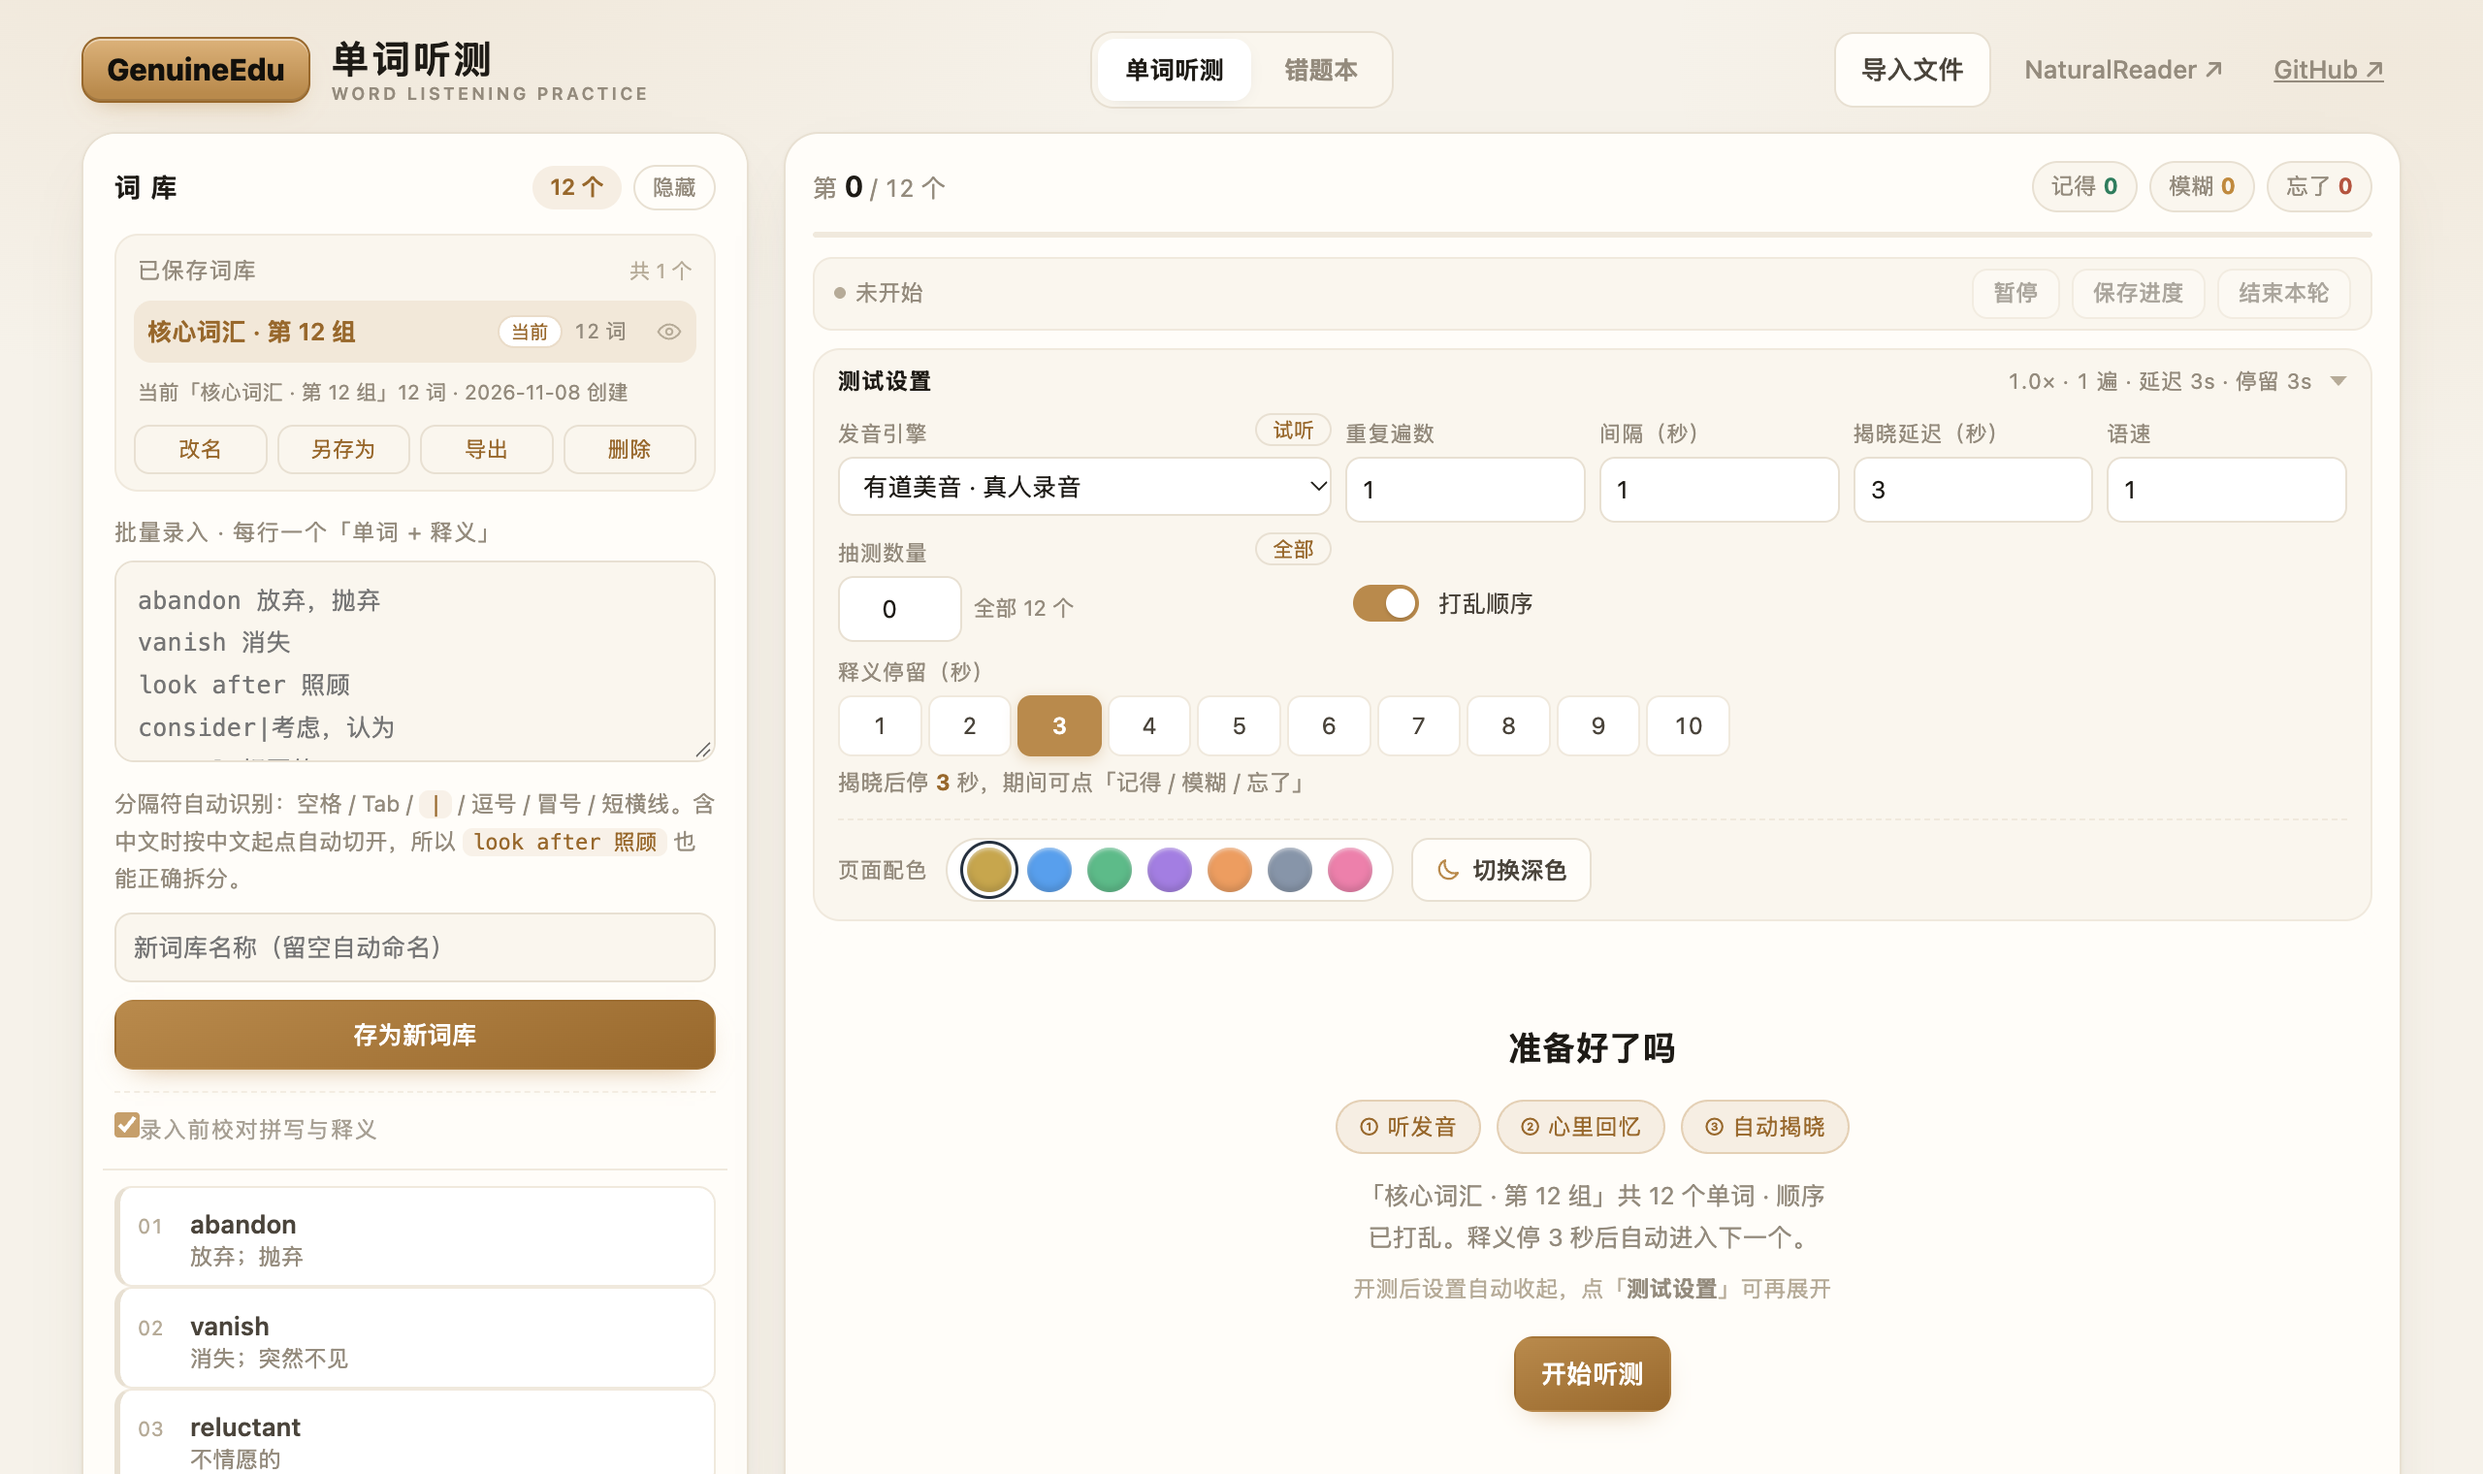
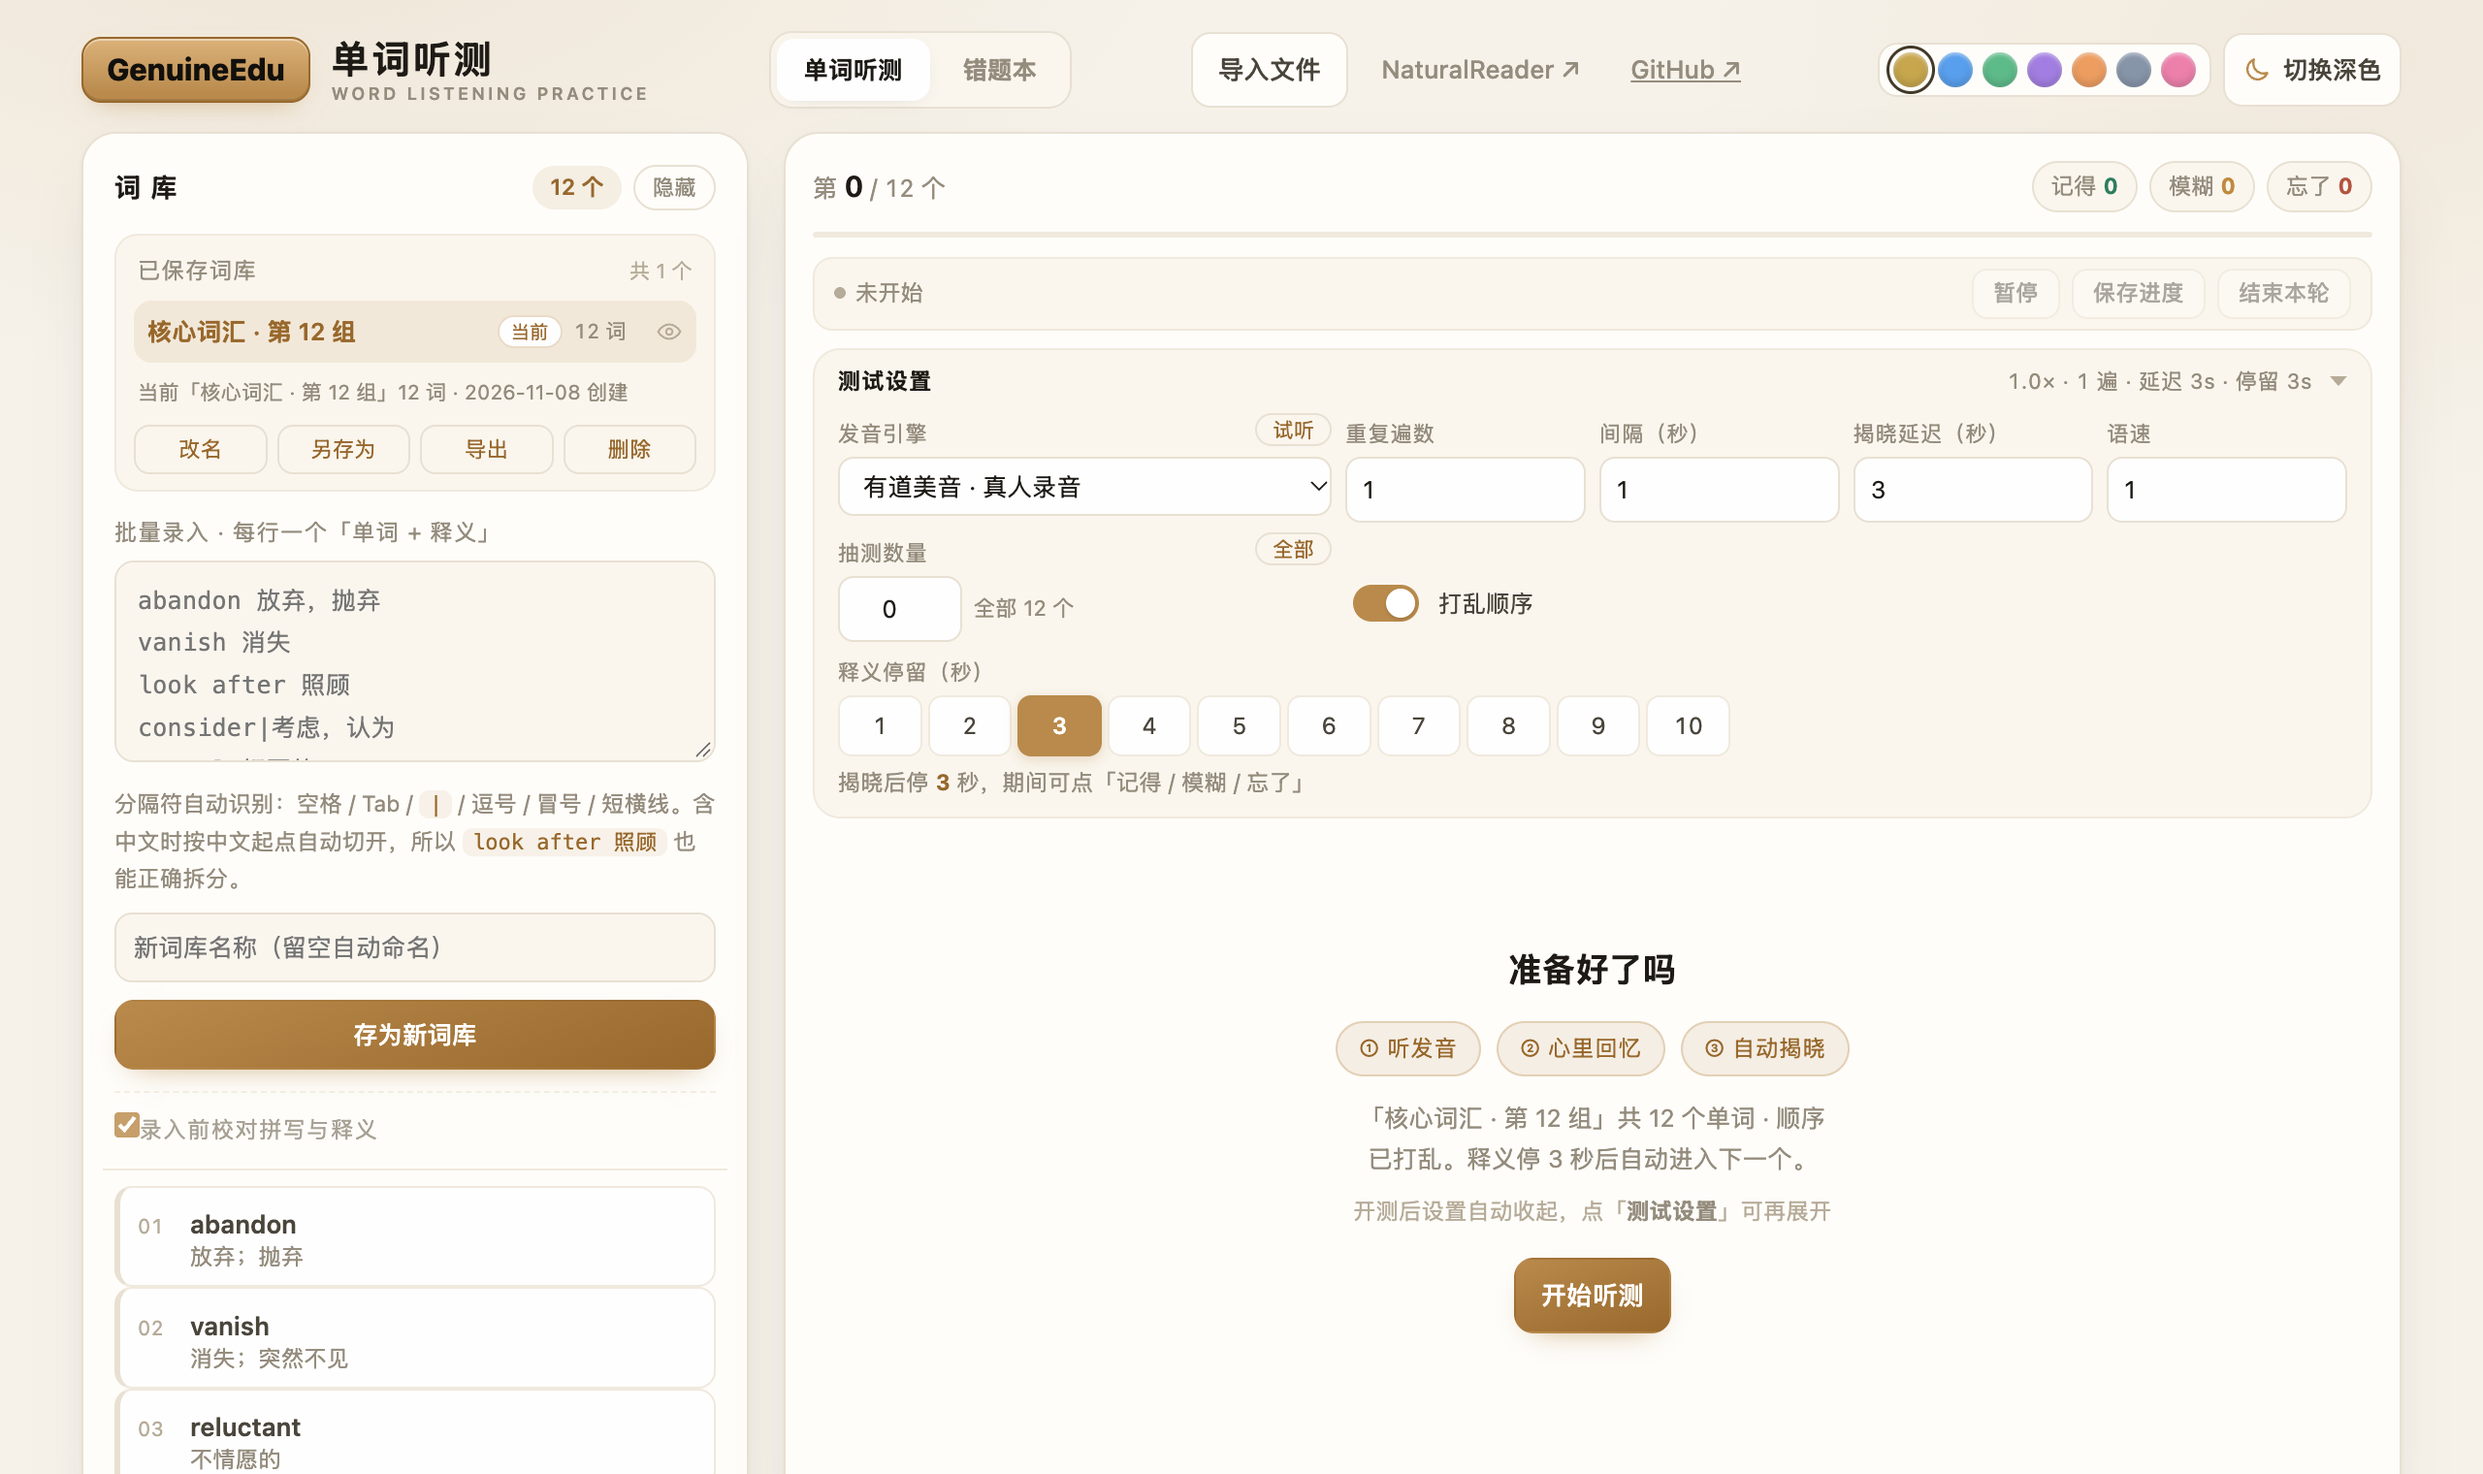
feat(theme): 页面配色从「测试设置」挪到顶栏右上角常驻（一排色点 + 深色开关），开测收起设置后也能随时换色；1024 这类窄顶栏自动收小色点、深色按钮只留图标，避免顶栏折行；重拍 README 两张配图

diff --git a/index.html b/index.html
@@ -510,7 +510,6 @@ textarea:focus,input:focus,select:focus{border-color:var(--gold);background:var(
 .set label{display:block;font-size:11px;color:var(--muted);letter-spacing:.03em;margin-bottom:3px;white-space:nowrap}
 .set select,.set input{padding:6px 8px;font-size:12.5px;border-radius:8px;background:var(--panel-3)}
 .set.wide{grid-column:span 2}
-.set.full{grid-column:1 / -1}   /* 带长提示的区域独占一整行，别和右侧开关挤在一起 */
 .set .unit{font-size:11px;color:var(--muted);margin-left:3px}
 .switch{display:flex;align-items:center;gap:7px;padding-top:15px;font-size:12px;color:var(--ink-2);cursor:pointer;user-select:none;grid-column:span 2;white-space:nowrap}
 .switch input{appearance:none;width:34px;height:19px;border-radius:20px;background:var(--line);position:relative;transition:.2s;cursor:pointer;flex:0 0 auto;border:none;padding:0}
@@ -533,19 +532,20 @@ textarea:focus,input:focus,select:focus{border-color:var(--gold);background:var(
 #revealStayHint{margin:5px 0 0;font-size:11.5px;line-height:1.5}
 #revealStayHint b{color:var(--gold-d);font-variant-numeric:tabular-nums}
 
-/* 页面配色：一排色点 + 深浅色按钮（参考 GenuineEdu 配色选择条） */
-.theme-set{display:flex;align-items:center;gap:9px;flex-wrap:wrap;
-  margin-top:3px;padding-top:9px;border-top:1px dashed var(--line-2)}
-.tt-lbl{flex:none;font-size:11px;color:var(--muted);letter-spacing:.03em;margin:0}
-.sw-pill{display:flex;align-items:center;gap:8px;flex:none;
-  background:var(--panel-3);border:1px solid var(--line);border-radius:999px;padding:4px 10px}
-.swdot{width:23px;height:23px;border-radius:50%;border:0;padding:0;flex:none;position:relative;
+/* 页面配色：常驻顶栏右上角，一排色点 + 深浅色开关。
+   放在这里而不是「测试设置」里，是因为开测后设置会自动收起，配色想随时换就得再点开一层。 */
+.top-theme{display:flex;align-items:center;gap:6px;flex:none}
+.sw-pill{
+  display:flex;align-items:center;gap:5px;flex:none;
+  background:var(--panel);border:1px solid var(--line);border-radius:10px;padding:4px 7px;
+}
+.swdot{width:18px;height:18px;border-radius:50%;border:0;padding:0;flex:none;position:relative;
   background:var(--dot);cursor:pointer;transition:transform .14s,box-shadow .14s;
   box-shadow:inset 0 -2px 4px rgba(0,0,0,.16),inset 0 1px 2px rgba(255,255,255,.55)}
 /* 视觉上是个小圆点，实际点击范围放大一圈，手机上不至于点不中 */
 .swdot::after{content:"";position:absolute;inset:-5px;border-radius:50%}
 .swdot:hover{transform:scale(1.08)}
-.swdot.on{box-shadow:0 0 0 2px var(--panel-3),0 0 0 3.5px var(--ring),
+.swdot.on{box-shadow:0 0 0 2px var(--panel),0 0 0 3.5px var(--ring),
   inset 0 -2px 4px rgba(0,0,0,.16),inset 0 1px 2px rgba(255,255,255,.55)}
 .swdot[data-theme=gold]{--dot:#c7a64d}
 .swdot[data-theme=blue]{--dot:#589fed}
@@ -554,9 +554,19 @@ textarea:focus,input:focus,select:focus{border-color:var(--gold);background:var(
 .swdot[data-theme=orange]{--dot:#ed9d60}
 .swdot[data-theme=slate]{--dot:#8795a9}
 .swdot[data-theme=pink]{--dot:#ed80ab}
-.dark-btn{flex:none;padding:6px 11px;font-size:12px;border-radius:9px;gap:6px;color:var(--ink-2)}
-.dark-btn svg{width:14px;height:14px;flex:none;color:var(--acc)}
+.dark-btn{flex:none;padding:8px 9px;font-size:12.5px;border-radius:10px;gap:6px;color:var(--ink-2)}
+.dark-btn svg{width:15px;height:15px;flex:none;color:var(--acc)}
 .dark-btn:hover{border-color:rgba(var(--acc-rgb),.34);background:var(--panel-3)}
+/* 1000px 上下的笔记本屏顶栏本来就挤：深色按钮收成只有月亮图标、色点收小一档，
+   配色条才塞得进同一行（否则顶栏折成两行，测试页就得多滚一屏） */
+@media (max-width:1100px){
+  .topbar{gap:12px}
+  .dark-btn span{display:none}
+  .dark-btn{padding:7px 8px}
+  .top-theme{gap:5px;margin-left:auto}
+  .sw-pill{gap:4px;padding:3px 6px}
+  .swdot{width:17px;height:17px}
+}
 
 /* 舞台 */
 .playarea{
@@ -704,6 +714,8 @@ body.adj-open #toast{bottom:250px}
   /* 窄屏只剩 3 列：停留按钮独占一行，别撑出隐藏列 */
   .stay-set{grid-column:1 / -1}
   #revealStayHint{grid-column:1 / -1;padding-top:3px}
+  /* 顶栏换行后配色条仍然贴右边：margin-left:auto 在最后一行把它推到右边缘 */
+  .top-theme{margin-left:auto}
 }
 @media (max-width:520px){
   /* 窄屏品牌区：胶囊、标题、英文副标题都收一档，别顶到屏幕边 */
@@ -711,12 +723,12 @@ body.adj-open #toast{bottom:250px}
   .logo{height:31px;padding:0 10px;border-radius:9px;font-size:14px}
   .brand h1{font-size:18px;letter-spacing:.04em}
   .brand p{font-size:8.5px;letter-spacing:.11em}
-  /* 窄屏配色行：色点缩小一档、标签收起来，保证色点 + 深色按钮同一行放得下 */
-  .tt-lbl{display:none}
-  .theme-set{gap:7px;padding-top:8px}
-  .sw-pill{gap:6px;padding:4px 8px}
-  .swdot{width:20px;height:20px}
-  .dark-btn{padding:5px 9px;font-size:11.5px}
+  /* 窄屏配色条：色点缩小一档、深色按钮只留月亮图标，保证一排放得下 */
+  .top-theme{gap:6px}
+  .sw-pill{gap:5px;padding:4px 7px}
+  .swdot{width:19px;height:19px}
+  .dark-btn{padding:7px 8px}
+  .dark-btn span{display:none}
   .settings{grid-template-columns:repeat(2,minmax(0,1fr))}
   .set.wide{grid-column:span 2}
   /* 手机上停留秒数排成 5 个一行，按钮大一点好点 */
@@ -968,6 +980,22 @@ body.adj-open #toast{bottom:250px}
       <button class="btn ghost" id="btnNatural">NaturalReader ↗</button>
       <a class="btn ghost" href="https://github.com/AprilPlatanus/word-listening" target="_blank" rel="noopener" title="开源仓库 · 欢迎 Star">GitHub ↗</a>
     </div>
+    <!-- 页面配色：常驻右上角，不随「测试设置」一起收起 -->
+    <div class="top-theme" role="group" aria-label="页面配色与深浅色">
+      <div class="sw-pill" id="swPill" role="group" aria-label="页面配色" title="页面配色">
+        <button class="swdot" type="button" data-theme="gold" title="金色（默认）" aria-label="金色"></button>
+        <button class="swdot" type="button" data-theme="blue" title="蓝色" aria-label="蓝色"></button>
+        <button class="swdot" type="button" data-theme="green" title="绿色" aria-label="绿色"></button>
+        <button class="swdot" type="button" data-theme="violet" title="紫色" aria-label="紫色"></button>
+        <button class="swdot" type="button" data-theme="orange" title="橙色" aria-label="橙色"></button>
+        <button class="swdot" type="button" data-theme="slate" title="灰蓝" aria-label="灰蓝"></button>
+        <button class="swdot" type="button" data-theme="pink" title="粉色" aria-label="粉色"></button>
+      </div>
+      <button class="btn dark-btn" id="btnDark" type="button" aria-pressed="false" title="切换深色 / 浅色">
+        <svg viewBox="0 0 24 24" fill="none" stroke="currentColor" stroke-width="1.9" stroke-linecap="round" stroke-linejoin="round" aria-hidden="true"><path d="M20.5 14.5A8.5 8.5 0 0 1 9.5 3.5a8.5 8.5 0 1 0 11 11z"/></svg>
+        <span>切换深色</span>
+      </button>
+    </div>
   </header>
 
   <section id="viewListen">
@@ -1133,23 +1161,6 @@ mutual,相互的"></textarea>
             <button type="button" data-s="10" aria-pressed="false" title="揭晓后停 10 秒">10</button>
           </div>
           <p class="hint" id="revealStayHint">揭晓后停 <b>3</b> 秒，期间可点「记得 / 模糊 / 忘了」</p>
-        </div>
-        <!-- 页面配色 + 深浅色 -->
-        <div class="set full theme-set">
-          <span class="tt-lbl">页面配色</span>
-          <div class="sw-pill" id="swPill" role="group" aria-label="页面配色">
-            <button class="swdot" type="button" data-theme="gold" title="金色（默认）" aria-label="金色"></button>
-            <button class="swdot" type="button" data-theme="blue" title="蓝色" aria-label="蓝色"></button>
-            <button class="swdot" type="button" data-theme="green" title="绿色" aria-label="绿色"></button>
-            <button class="swdot" type="button" data-theme="violet" title="紫色" aria-label="紫色"></button>
-            <button class="swdot" type="button" data-theme="orange" title="橙色" aria-label="橙色"></button>
-            <button class="swdot" type="button" data-theme="slate" title="灰蓝" aria-label="灰蓝"></button>
-            <button class="swdot" type="button" data-theme="pink" title="粉色" aria-label="粉色"></button>
-          </div>
-          <button class="btn dark-btn" id="btnDark" type="button" aria-pressed="false" title="切换深色 / 浅色">
-            <svg viewBox="0 0 24 24" fill="none" stroke="currentColor" stroke-width="1.9" stroke-linecap="round" stroke-linejoin="round" aria-hidden="true"><path d="M20.5 14.5A8.5 8.5 0 0 1 9.5 3.5a8.5 8.5 0 1 0 11 11z"/></svg>
-            <span>切换深色</span>
-          </button>
         </div>
         </div>
       </div>
